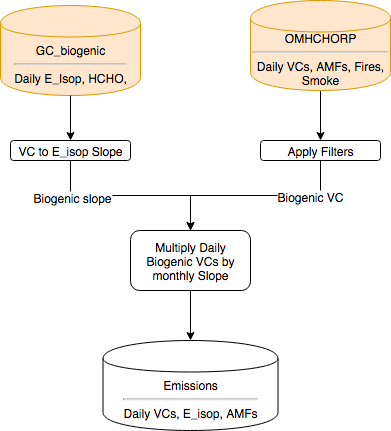
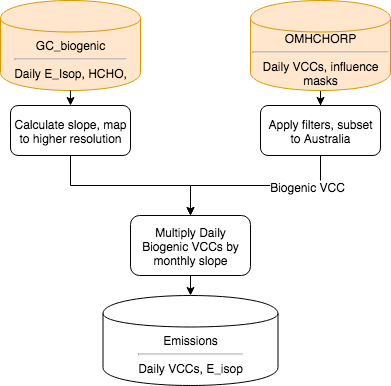
Started updating isoprene emissions outline

diff --git a/Chapters/BiogenicIsop.tex b/Chapters/BiogenicIsop.tex
@@ -21,7 +21,7 @@
   Isoprene has a large impact on the oxidative properties of the atmosphere, as it reacts quickly with the OH radical to form RO$_2$.
   These react quickly with NO$_X$ to form OVOCs (such as HCHO), SOAs, and ozone.
   Australian isoprene emissions are poorly understood due to poor measurement coverage, and poor emission factor characterisation.
-  The emissions of isoprene have been modelled at around 500~Tg C yr$^{-1}$ in \textcite{Guenther1995,Guenther2006} using MEGAN, and more recently around 465~Tg C yr$^{-1}$ in \textcite{Messina2016} using ORCHIDEE.
+  The emissions of isoprene have been modelled at around 500\tgcpyr in \textcite{Guenther1995,Guenther2006} using MEGAN, and more recently around 465\tgcpyr in \textcite{Messina2016} using ORCHIDEE.
   The global emission factors model used to derive these estimates is based on modelling emissions from different plant species (phenotypes), and very few are used to set the emission factors of Australian forests.
   
   % What we aim to do
@@ -115,13 +115,14 @@
   \subsection{Outline}
     % Method Briefly outlined here
     Here is an overview of the steps involved in my Thesis, which take satellite data and model output to estimate isoprene emissions.
+    This process is summarised in figure \ref{BioIsop:Methods:fig_Flow_Making_Isop}.
     \begin{enumerate}
       \item 
-        Download Aqua/Terra MODIS gridded fire counts (MOD14A1), smoke measurements (OMAERUVd), and Aura HCHO columns (OMHCHO).
-        These products are discussed in more detail in Section \ref{Model:Datasets}.
+        Level three satellite data is used to make anthropogenic, fire, ad smoke influence masks (See section \ref{Model:Filter})
       \item 
-        Run GEOS-Chem with satellite overpass output averaged over 1200-1300~LT (matching Aura overpass time). 
-        This step is described in more detail in section \ref{Model:GC:running}, which includes set-up details for running GEOS Chem V10.01
+        Level two OMI HCHO satellite data(See section \ref{Model:Datasets:OMHCHO}), along with GEOS-Chem model runs (See section \ref{Model:GC:runs}) are used to recalculate corrected vertical columns (VCCs; saved in my OMHCHORP dataset) at 0.25\degr by 0.3125\degr horizontal resolution (see section \ref{Model:omiRecalc}).
+      \item 
+        GEOS-Chem modelled biogenic emissions of isoprene along with total biogenic columns of HCHO, both averaged from 1300-1400~LT are used to create a linear regression slope.
       \item 
         Recalculate OMHCHO vertical columns using GEOS-Chem to recreate the shape factors for each slant column. Also done with code from Paul Palmers group which includes recalculation of the scattering weights.
         The method to read the satellite data is given in Section \ref{Model:Datasets:OMHCHO}, while reprocessing the column AMFs is detailed in Section \ref{Model:omiRecalc}
@@ -147,8 +148,9 @@
       \item 
         Compare against MEGAN, MUMBA, SPS, Daintree, Wollongong, and one set of airplane(?) measurements
     \end{enumerate}
-  
-  
+    
+    \mypic{/Figures/Flow_Making_Isop.png}{Creation of isoprene emissions dataset using OMHCHORP and biogenic GEOS-Chem outputs.}{\ref{BioIsop:Methods:fig_Flow_Making_Isop}}
+    
   
   \subsection{Satellite inversion}
   \label{BioIsop:SatInv}
